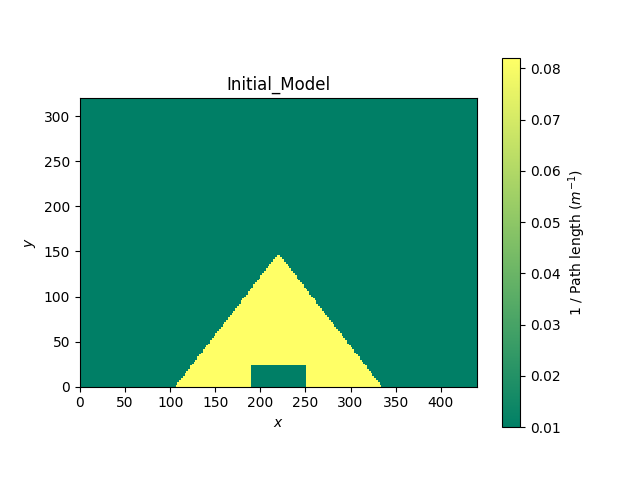
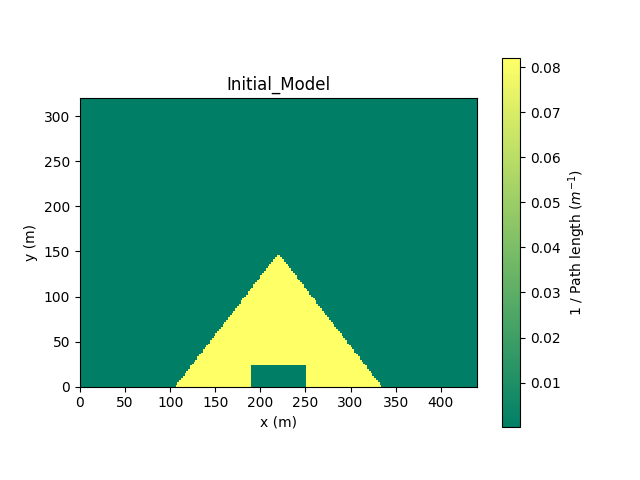
finish all inverse problem except cube tracing

diff --git a/Project/sd.py b/Project/sd.py
@@ -15,9 +15,9 @@ import environment, utility, settings
 def main():
     # settings 
     EPSILON = 1e-3
-    MAX_ITER = 400
-    ALPHA0 = 0.8
-    ALPHA_DECAYRATE = 0.8
+    MAX_ITER = 1200
+    ALPHA0 = 1e-2 # 0.8 1e-2
+    ALPHA_DECAYRATE = 0.5 # 0.8 0.5
 
     real_lambda = environment.get_system(model='real')
     ray_paths = utility.get_ray_paths()
@@ -48,14 +48,20 @@ def main():
             LOG_ERRS.append(err)
             print(k, err)
             k += 1
+            if len(LOG_ERRS) > 12:
+                if np.std(LOG_ERRS[-10:]) < 1e-10:
+                    break
     except KeyboardInterrupt:
         pass
 
     # visualize
-    file_name = 'k{}_filter{}_smooth{}'.format(
+    file_name = '{}_k{}_filter{}_smooth{}_100alp{}_percentDecay{}'.format(
+        settings.TRACING_MODE,
         k,
         1 if settings.FILTER_GRAD else 0,
         1 if settings.SMOOTH_GRAD else 0,
+        100*ALPHA0,
+        100*ALPHA_DECAYRATE,
     )
 
     plt.plot(LOG_ERRS)
@@ -69,6 +75,7 @@ def main():
         model_lambda.reshape(settings.NY, settings.NX), cmap='summer',
         extent=[0, settings.DX*settings.NX, 0, settings.DX*settings.NY],
         origin='bottom left',
+        # vmin=settings.LAMBDA_AIR, vmax=settings.LAMBDA_ROCK,
     )
     a = plt.colorbar()
     a.set_label('1 / Path length ($m^{-1}$)')
@@ -76,5 +83,5 @@ def main():
     plt.xlabel("x (m)")
     plt.ylabel("y (m)")
     # plt.show()
-    plt.savefig(os.path.join('sd', 'model_%s.png'%file_name))
+    plt.savefig(os.path.join('sd', 'result_%s.png'%file_name))
     plt.clf()

diff --git a/Project/cg.py b/Project/cg.py
@@ -15,9 +15,9 @@ import environment, utility, settings
 def main():
     # settings 
     EPSILON = 1e-3
-    MAX_ITER = 100
-    ALPHA0 = 1.0
-    ALPHA_DECAYRATE = 0.8
+    MAX_ITER = 1200
+    ALPHA0 = 1e-2 # 0.8 1e-2
+    ALPHA_DECAYRATE = 0.5 # 0.8 0.5
 
     real_lambda = environment.get_system(model='real')
     ray_paths = utility.get_ray_paths()
@@ -59,14 +59,20 @@ def main():
 
             model_lambda = model_lambda_new
             k += 1
+            if len(LOG_ERRS) > 12:
+                if np.std(LOG_ERRS[-10:]) < 1e-10:
+                    break
     except KeyboardInterrupt:
         pass
 
     # visualize
-    file_name = 'k{}_filter{}_smooth{}'.format(
+    file_name = '{}_k{}_filter{}_smooth{}_100alp{}_percentDecay{}'.format(
+        settings.TRACING_MODE,
         k,
         1 if settings.FILTER_GRAD else 0,
         1 if settings.SMOOTH_GRAD else 0,
+        100*ALPHA0,
+        100*ALPHA_DECAYRATE,
     )
 
     plt.plot(LOG_ERRS)
@@ -80,6 +86,7 @@ def main():
         model_lambda.reshape(settings.NY, settings.NX), cmap='summer',
         extent=[0, settings.DX*settings.NX, 0, settings.DX*settings.NY],
         origin='bottom left',
+        # vmin=settings.LAMBDA_AIR, vmax=settings.LAMBDA_ROCK,
     )
     a = plt.colorbar()
     a.set_label('1 / Path length ($m^{-1}$)')

diff --git a/Project/unit_test/pyramid.py b/Project/unit_test/pyramid.py
@@ -8,7 +8,7 @@ import matplotlib.pyplot as plt
 
 import environment, utility, settings
 
-MODEL = 'real' #  (initial, real)
+MODEL = 'initial' #  (initial, real)
 
 def main():
     model = environment.get_system(model=MODEL)
@@ -23,5 +23,5 @@ def main():
     plt.title(name_title)
     plt.xlabel("x (m)")
     plt.ylabel("y (m)")
-    plt.show()
-    # plt.savefig(os.path.join('unit_test', '{}.png'.format(MODEL)))
+    # plt.show()
+    plt.savefig(os.path.join('unit_test', '{}.png'.format(MODEL)))

diff --git a/Project/settings.py b/Project/settings.py
@@ -19,8 +19,8 @@ G_H = NY*DX
 
 # DETECTOR
 N_SOURCE = 90 # minumim 10
-N_INSIDE_PYRAMID = 3
-N_OUTSIDE_PYRAMID_PER_SIDE = 2
+N_INSIDE_PYRAMID = 6 # 3
+N_OUTSIDE_PYRAMID_PER_SIDE = 3 # 2
 N_RECEIVER = N_INSIDE_PYRAMID + 2*N_OUTSIDE_PYRAMID_PER_SIDE
 
 # PYRAMID
@@ -30,8 +30,8 @@ CHAMBER_W = 60
 CHAMBER_H = 24
 
 # void
-VOID_W = 30
-VOID_H = 30
+VOID_W = 40
+VOID_H = 40
 VOID_HEIGHT = 60
 
 # SIDE GAP

diff --git a/Project/utility.py b/Project/utility.py
@@ -14,7 +14,7 @@ def deg_to_rad(deg):
 def rad_to_deg(rad):
     return rad * 180.0/math.pi
 
-def smooth_map(map, kernel_size=(3, 3), mode='gaussian'):
+def smooth_map(map, kernel_size=(2, 2), mode='gaussian'):
     if mode == 'uniform':
         out = uniform_filter(map.reshape(settings.NY, settings.NX), size=kernel_size).reshape(settings.NX*settings.NY)
     elif mode == 'gaussian':

diff --git a/Project/main.py b/Project/main.py
@@ -5,5 +5,5 @@ if __name__ == '__main__':
     # pyramid.main()
     # muon_tracing.main()
     # grad_filter.main()
+    cg.main()
     sd.main()
-    # cg.main()
